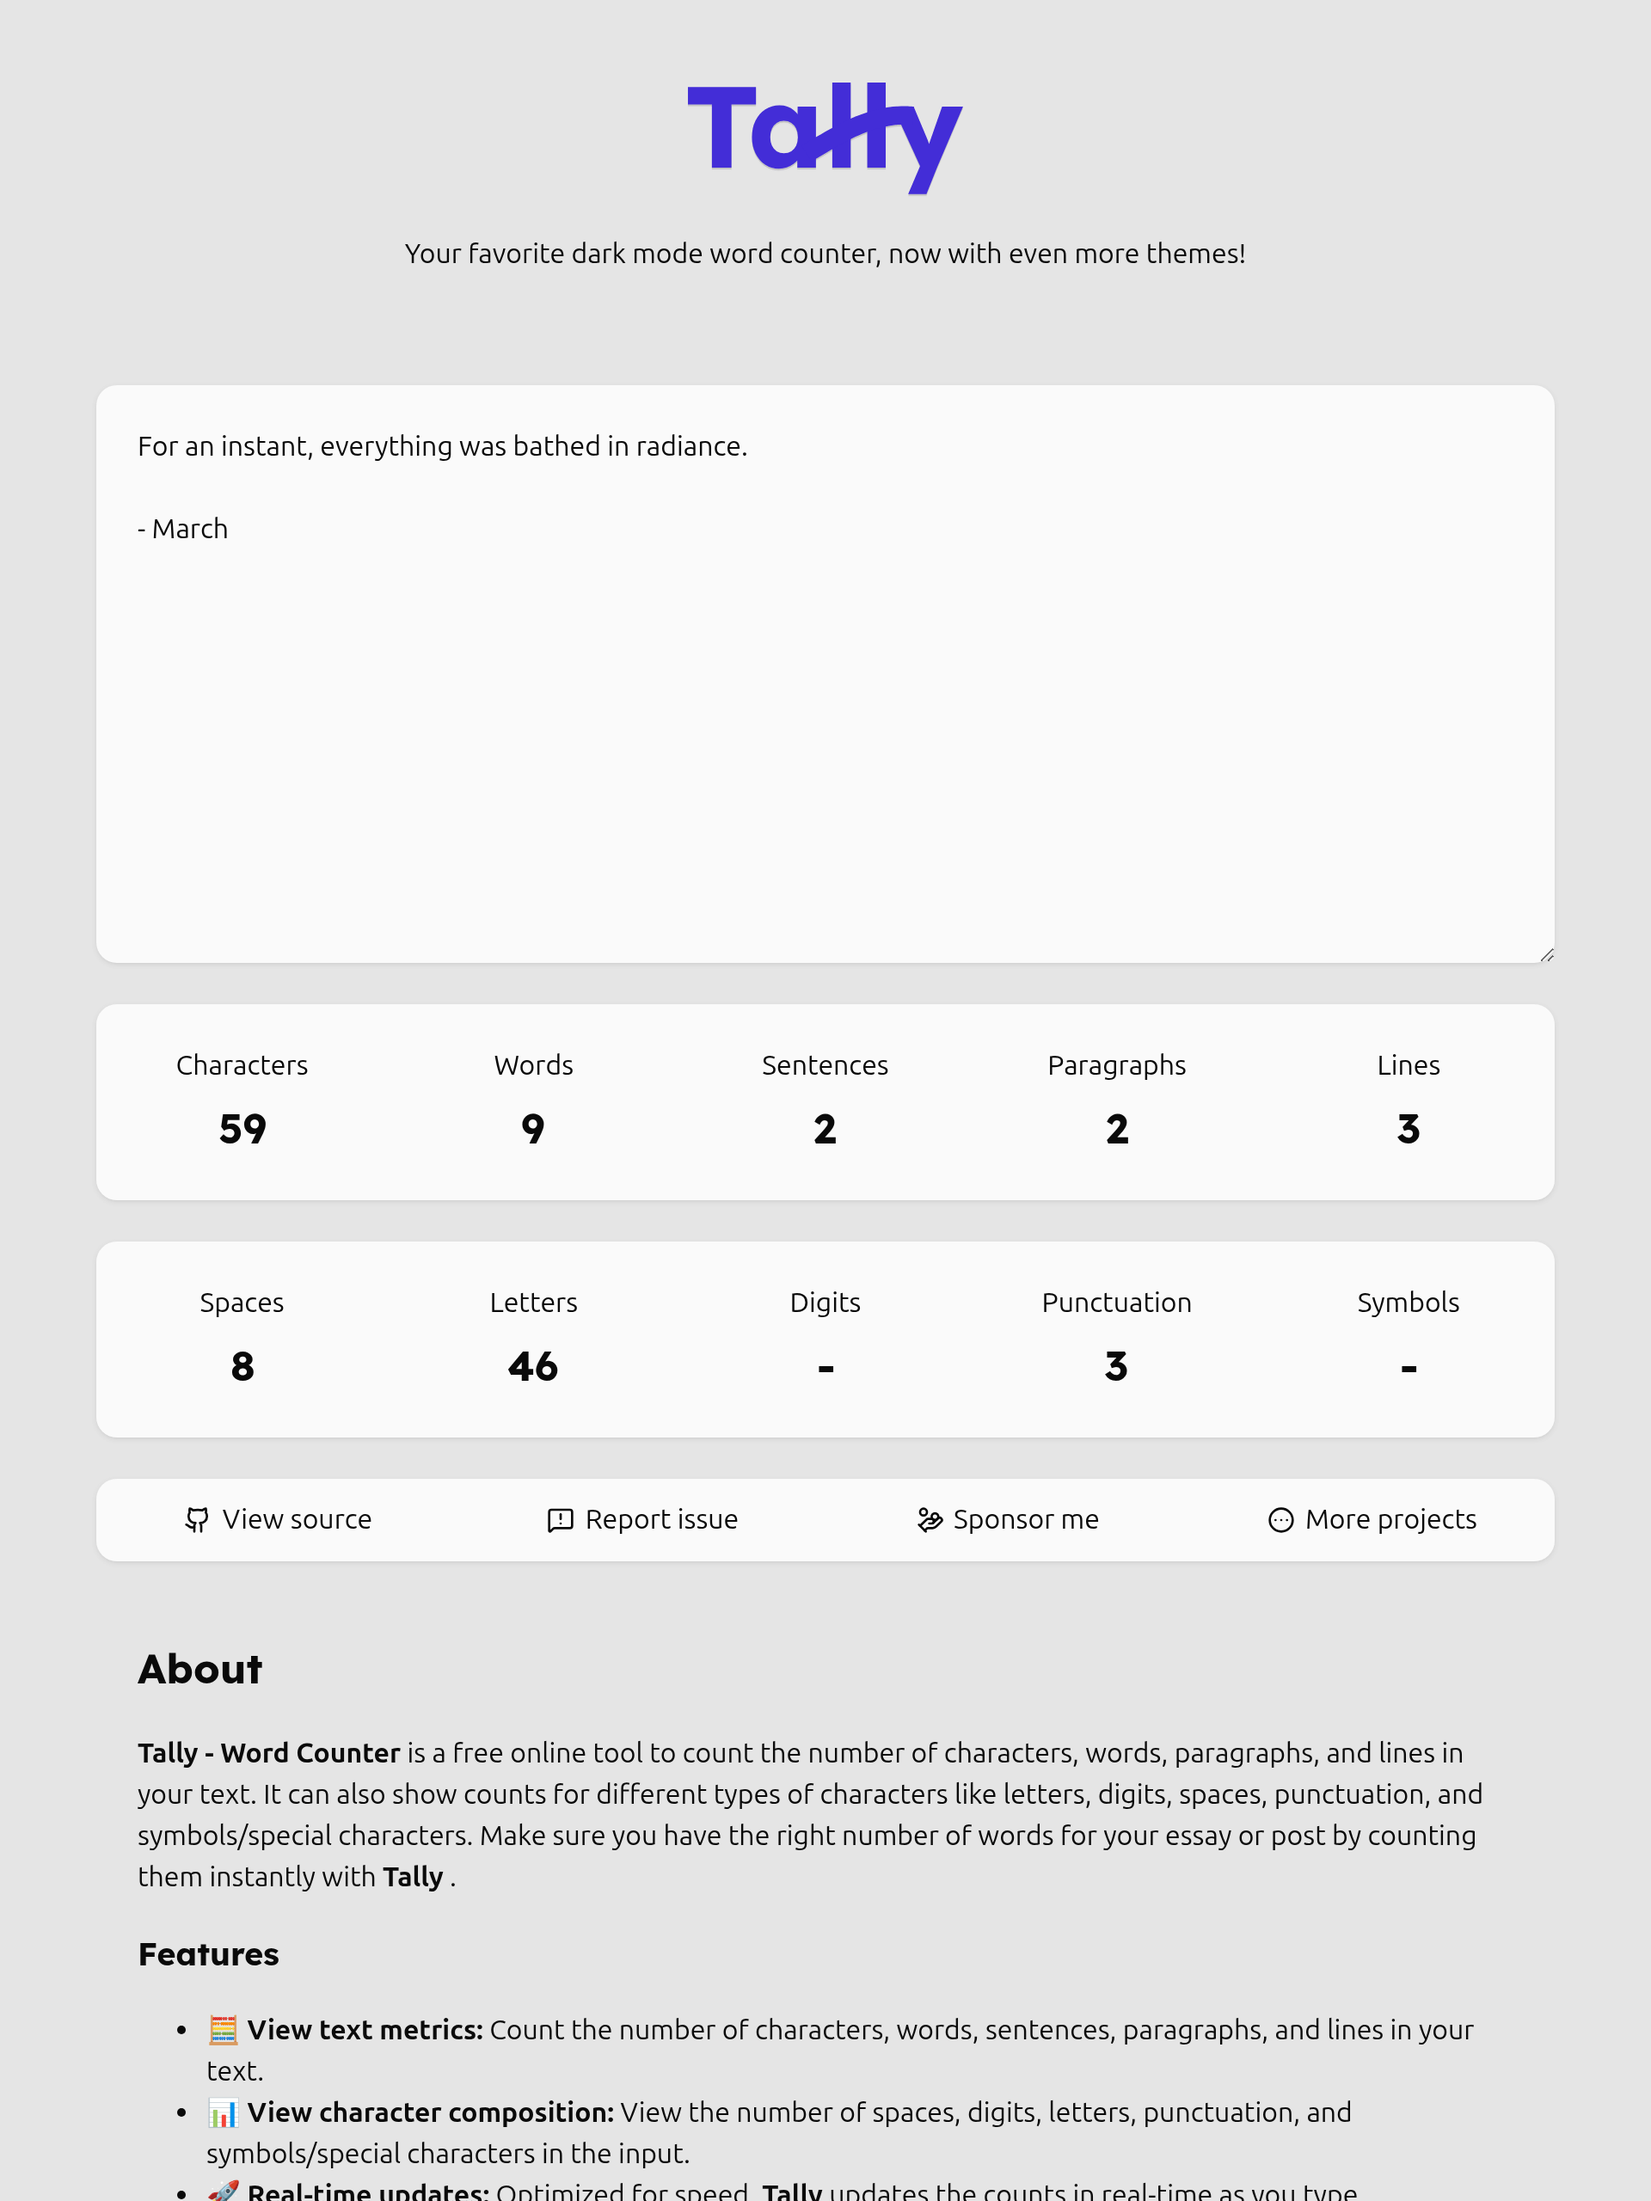
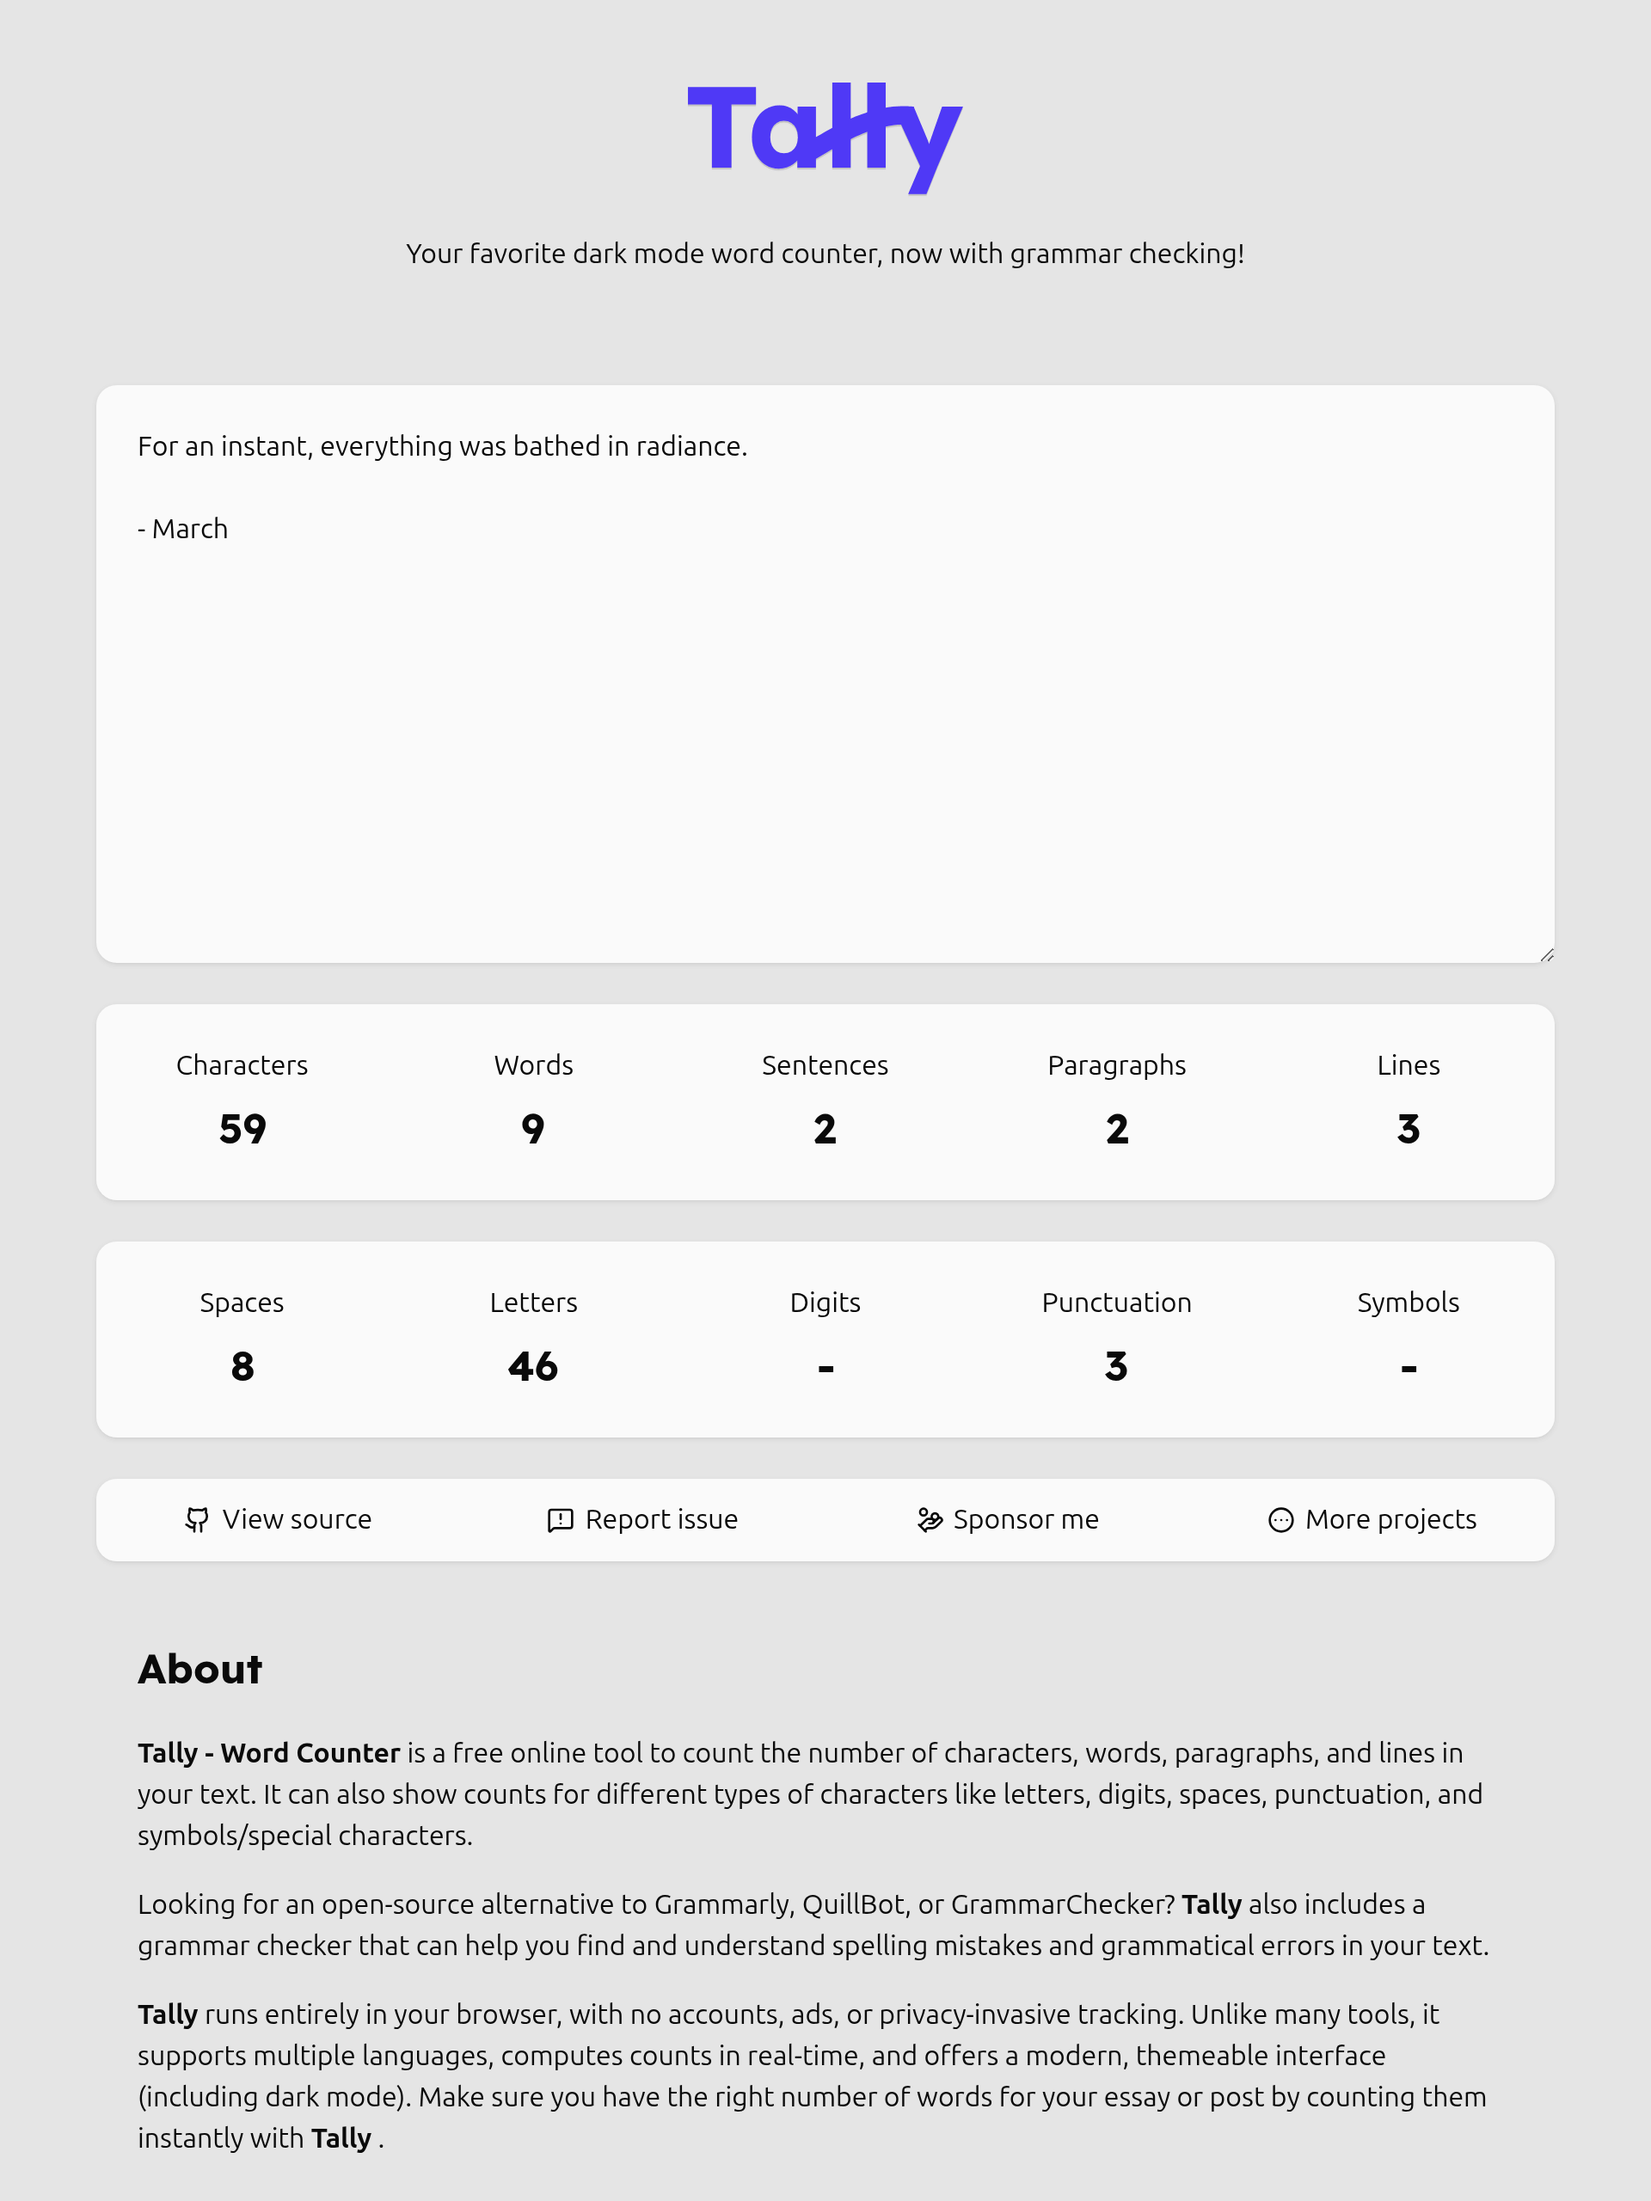
docs: update theme screenshots and add harper.js to dependency list

diff --git a/README.md b/README.md
@@ -60,11 +60,11 @@ Looking for an open-source alternative to Grammarly, QuillBot, or GrammarChecker
 
 | ![Screenshot of Tally's dark theme](docs/images/theme/dark.png) | ![Screenshot of Tally's light theme](docs/images/theme/light.png) |
 | --------------------------------------------------------------- | ----------------------------------------------------------------- |
-| _Dark theme_                                                    | _Light theme_                                                     |
+| _Dark theme - v4.15.0_                                          | _Light theme - v4.15.0_                                           |
 
 | ![Screenshot of Tally's teal theme](docs/images/theme/teal.png) | ![Screenshot of Tally's dusk theme](docs/images/theme/dusk.png) |
 | --------------------------------------------------------------- | --------------------------------------------------------------- |
-| _Teal theme_                                                    | _Dusk theme_                                                    |
+| _Teal theme - v4.15.0_                                          | _Dusk theme - v4.15.0_                                          |
 
 ### How it Works
 
@@ -300,6 +300,7 @@ Projects used by this one:
 
 - **👤 [tally-ts](https://github.com/twocaretcat/tally-ts)**: A TypeScript word counting library. Used by **Tally** to compute counts
 - **👤 [astro-snapshot](https://github.com/twocaretcat/astro-snapshot)**: An Astro integration for generating screenshots of your pages automatically at build time. Used by **Tally** to generate social preview images
+- **🌐 [harper.js](https://writewithharper.com)**: An open-source grammar and style checking engine. Used by **Tally** to provide grammar suggestions
 
 ## 💕 Funding
 
